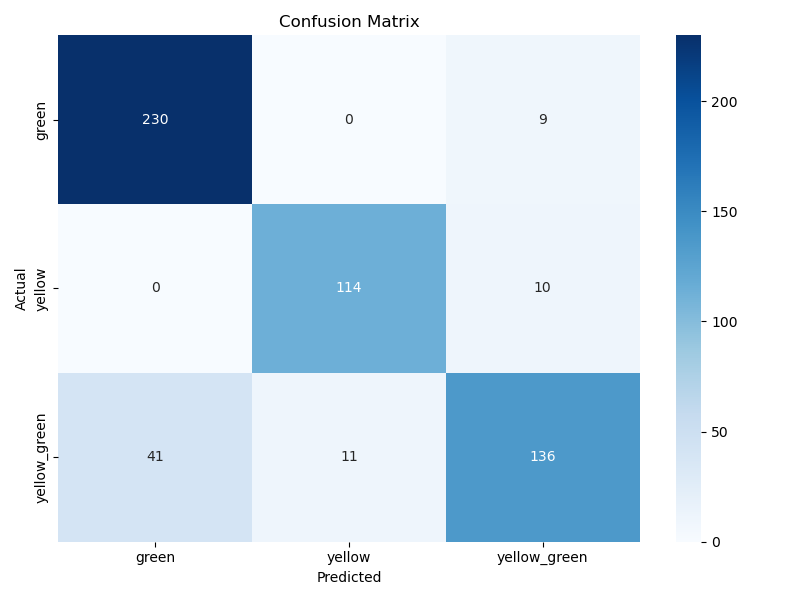
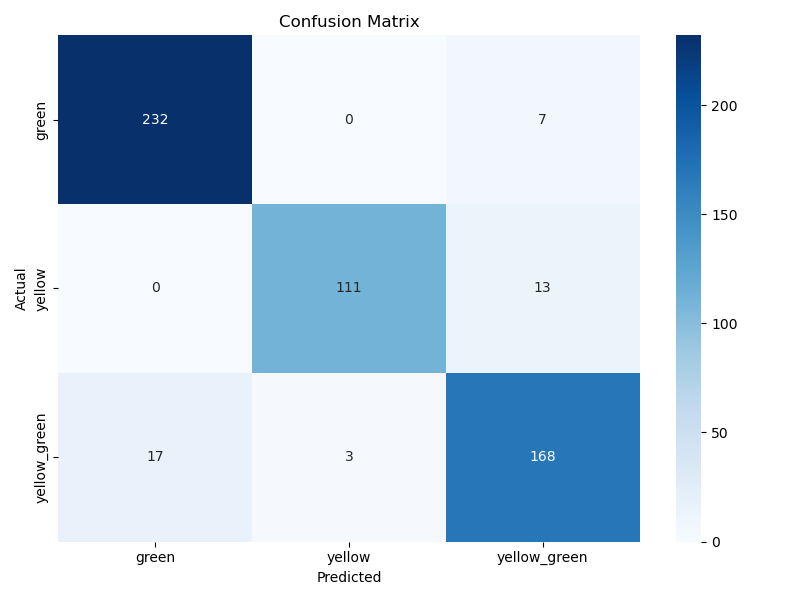
effnet-b4 ripeness

diff --git a/train_ripeness_effnet-b4.py b/train_ripeness_effnet-b4.py
@@ -213,7 +213,7 @@ def train_model(num_epochs):
     
 def main():
     # CHANGE ME
-    EPOCHS = 1
+    EPOCHS = 15
     log_path = os.path.join(data_dir,"efficientnet-b4", "log_ripeness_effnet-b4.txt")
     with open(log_path, "w") as f:
         sys.stdout = f

diff --git a/train_bruises_effnet-b4.py b/train_bruises_effnet-b4.py
@@ -213,7 +213,7 @@ def train_model(num_epochs):
     
 def main():
     # CHANGE ME
-    EPOCHS = 1
+    EPOCHS = 15
     log_path = os.path.join(data_dir,"efficientnet-b4", "log_bruises_effnet-b4.txt")
     with open(log_path, "w") as f:
         sys.stdout = f
